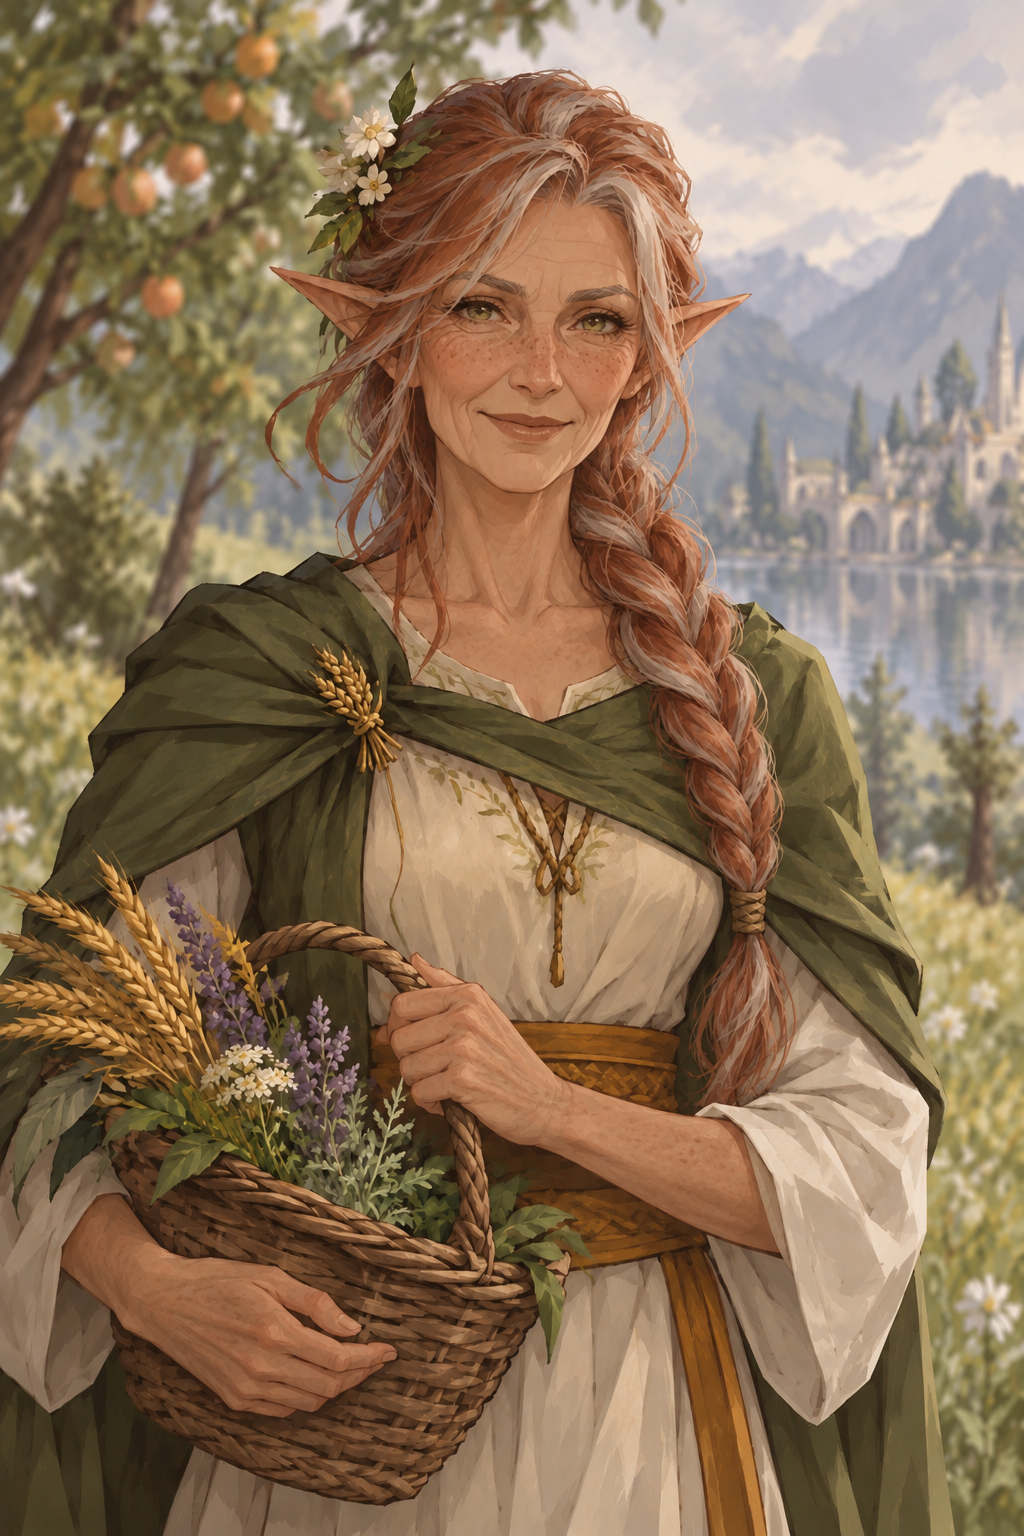
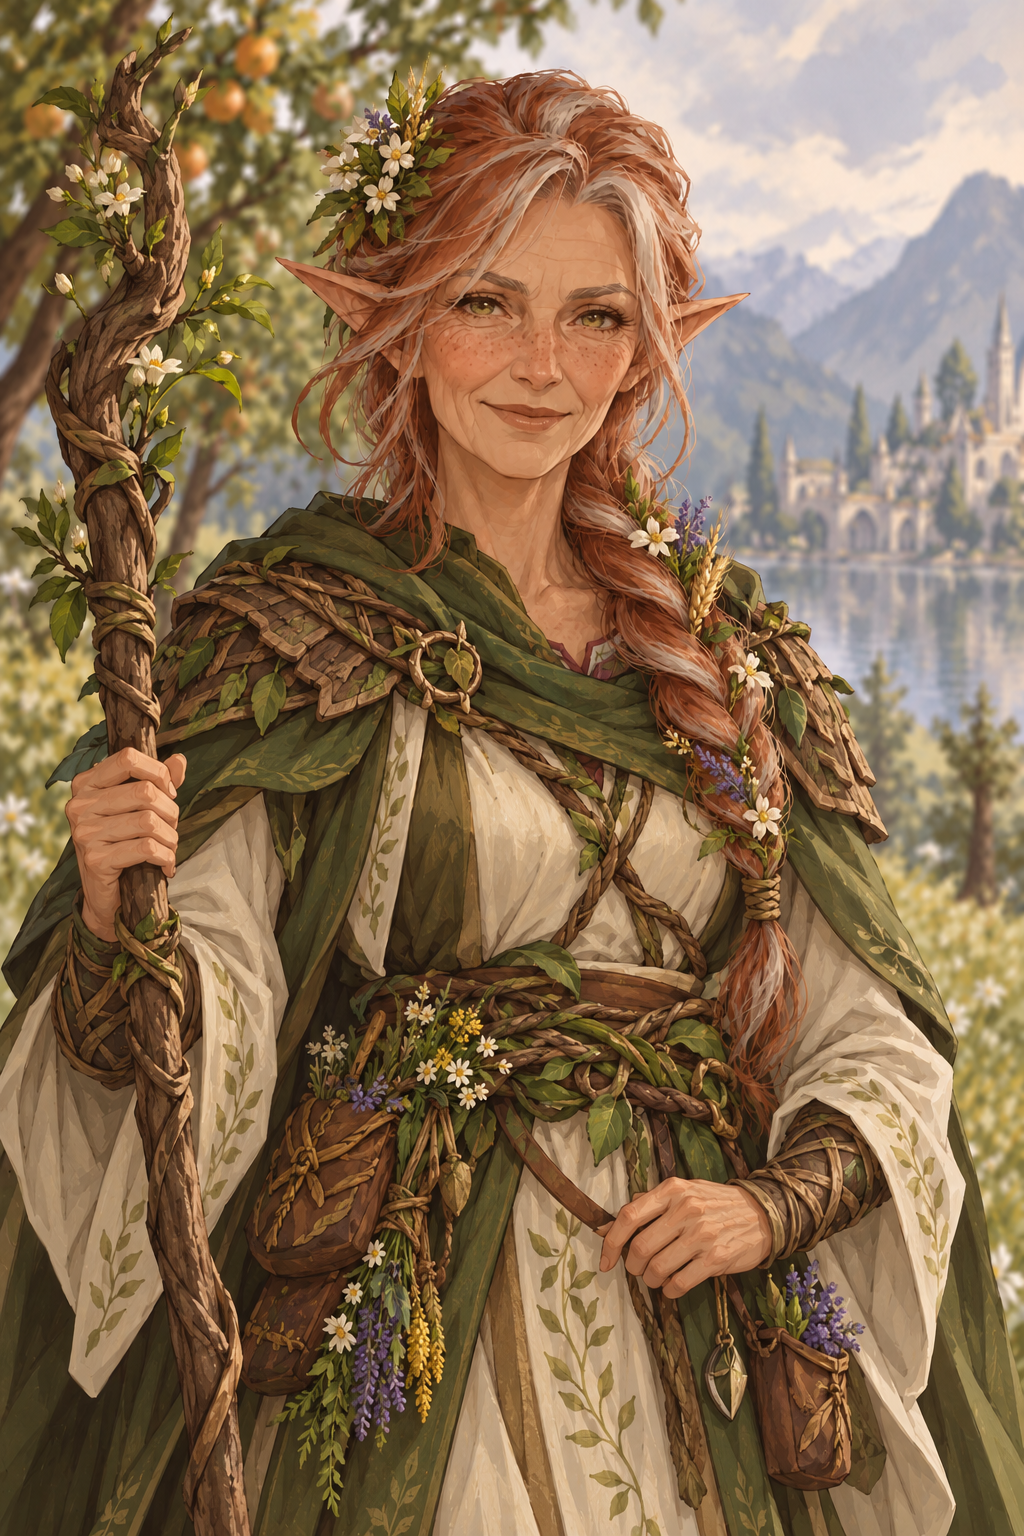
Give Grove portraits traditional druid clothing and implements

diff --git a/ART_PROMPTS_GROVE.md b/ART_PROMPTS_GROVE.md
@@ -59,3 +59,21 @@ Use case: identity-preserve. Edit target: the supplied existing druid portrait. 
 
 ### ral-kann
 Use case: identity-preserve. Edit target: the supplied existing druid portrait. Change ONLY apparent age of face, hair and visible hands: male elf Ral'Kann, visibly elderly veteran, fully silver-gray short hair, stronger age lines and weathered skin, existing scar retained, stern resolute expression. These are ancient elven druids; make them unmistakably older, roughly the visual maturity of a human 65–75, dignified and vigorous. Preserve recognizable identity, elven ears, original facial proportions, natural neck/head alignment, exact pose, framing, costume, equipment, background, lighting, colors and restrained angular painted illustration style. Keep detail level the same. Do not turn into photorealism, do not add ornaments, beard, text or new objects. Not a redesign. Single full portrait, same aspect ratio.
+
+## 4.7.2 — друидские образы
+Встроенный imagegen, редактирование по пользовательским референсам.
+
+### saris-faelorn
+Use case: identity-preserve costume redesign. Image 1 is the EDIT TARGET and identity/painting reference; images 2–3 are supporting DRUID COSTUME references only, do not copy their people, species or text. Redesign the same elderly elf as an unmistakable traditional fantasy druid. Sea druid and water engineer: layered weathered sea-green linen, driftwood shoulder pieces, woven reeds and small shell talismans, knotted driftwood staff with a modest suspended water sphere, small measuring tool on belt. Lakeside grove setting. Preserve the target's recognizable elderly face, gender, pointed elf ears, hair color, personal character and restrained angular painterly rendering. Three-quarter length single-character portrait, natural upright neck, face pointing in same direction as torso, clear hands and readable silhouette. Strong organic druid clothing and equipment inspired by reference materials, moderately simple detail. Muted earth colors with each circle's accent. No polished aristocratic fashion, no excessive ornaments, no huge antlers, no biological horns, no collage, no text or watermark. Single portrait.
+
+### mirella-daenel
+Use case: identity-preserve costume redesign. Image 1 is the EDIT TARGET and identity/painting reference; images 2–3 are supporting DRUID COSTUME references only, do not copy their people, species or text. Redesign the same elderly elf as an unmistakable traditional fantasy druid. Stars druid priestess: dark indigo rough-woven ritual robe, mantle of dark feathers and leaves, slim branch circlet, pale constellation face markings, twisted wooden staff with a small star-stone. Moonlit sacred grove, stars through trees. Calm solemn expression. Preserve the target's recognizable elderly face, gender, pointed elf ears, hair color, personal character and restrained angular painterly rendering. Three-quarter length single-character portrait, natural upright neck, face pointing in same direction as torso, clear hands and readable silhouette. Strong organic druid clothing and equipment inspired by reference materials, moderately simple detail. Muted earth colors with each circle's accent. No polished aristocratic fashion, no excessive ornaments, no huge antlers, no biological horns, no collage, no text or watermark. Single portrait.
+
+### korven-lael
+Use case: identity-preserve costume redesign. Image 1 is the EDIT TARGET and identity/painting reference; images 2–3 are supporting DRUID COSTUME references only, do not copy their people, species or text. Redesign the same elderly elf as an unmistakable traditional fantasy druid. Moon druid forest scout: weathered green hood, modest gray fur shoulder mantle, bark and leather wraps, small carved animal talismans, oak branch staff and simple crescent pendant. Quiet wolf-like alertness, moonlit woods. Face remains visible. Preserve the target's recognizable elderly face, gender, pointed elf ears, hair color, personal character and restrained angular painterly rendering. Three-quarter length single-character portrait, natural upright neck, face pointing in same direction as torso, clear hands and readable silhouette. Strong organic druid clothing and equipment inspired by reference materials, moderately simple detail. Muted earth colors with each circle's accent. No polished aristocratic fashion, no excessive ornaments, no huge antlers, no biological horns, no collage, no text or watermark. Single portrait.
+
+### siana-illior
+Use case: identity-preserve costume redesign. Image 1 is the EDIT TARGET and identity/painting reference; images 2–3 are supporting DRUID COSTUME references only, do not copy their people, species or text. Redesign the same elderly elf as an unmistakable traditional fantasy druid. Land druid harvest keeper: practical layered cream linen and moss green robe, woven bark shoulder guards, living vine belt, herb pouches, wheat and flowers in braid, budding crooked branch staff. Warm wise smile, orchard grove. Nature priestess, not a court lady. Preserve the target's recognizable elderly face, gender, pointed elf ears, hair color, personal character and restrained angular painterly rendering. Three-quarter length single-character portrait, natural upright neck, face pointing in same direction as torso, clear hands and readable silhouette. Strong organic druid clothing and equipment inspired by reference materials, moderately simple detail. Muted earth colors with each circle's accent. No polished aristocratic fashion, no excessive ornaments, no huge antlers, no biological horns, no collage, no text or watermark. Single portrait.
+
+### ral-kann
+Use case: identity-preserve costume redesign. Image 1 is the EDIT TARGET and identity/painting reference; images 2–3 are supporting DRUID COSTUME references only, do not copy their people, species or text. Redesign the same elderly elf as an unmistakable traditional fantasy druid. Preservation druid guardian: powerful elderly elf in rugged bark lamellar, rough green robe, modest fur collar, oak leaf mantle and root-wrapped forearms, small wooden protective charms. Broad gnarled oak staff with spear-like wooden point. Stern forest sentinel in ancient oak grove. Preserve the target's recognizable elderly face, gender, pointed elf ears, hair color, personal character and restrained angular painterly rendering. Three-quarter length single-character portrait, natural upright neck, face pointing in same direction as torso, clear hands and readable silhouette. Strong organic druid clothing and equipment inspired by reference materials, moderately simple detail. Muted earth colors with each circle's accent. No polished aristocratic fashion, no excessive ornaments, no huge antlers, no biological horns, no collage, no text or watermark. Single portrait.

diff --git a/CHANGELOG.md b/CHANGELOG.md
@@ -1,3 +1,7 @@
+# 4.7.2 — Друидские образы Круга Рощи
+
+Пять портретов переработаны по референсам: природные материалы, посохи, листья, кора, мех и обереги соответствующих кругов. Сохранены возрастные лица и общий стиль. Токены, листы и способности не изменены.
+
 # 4.7.1 — Возрастные портреты друидов
 
 Обновлены только пять портретов Круга Рощи: седина и возрастные черты при сохранении одежды, поз и стиля. Токены, листы и способности не изменены.

diff --git a/RELEASE_NOTES.md b/RELEASE_NOTES.md
@@ -1,3 +1,3 @@
-# 4.7.1 — Возрастные портреты друидов
+# 4.7.2 — Друидские образы Круга Рощи
 
-Обновлены только пять портретов Круга Рощи: седина и возрастные черты при сохранении одежды, поз и стиля. Токены, листы и способности не изменены.
+Пять портретов переработаны по референсам: природные материалы, посохи, листья, кора, мех и обереги соответствующих кругов. Сохранены возрастные лица и общий стиль. Токены, листы и способности не изменены.
